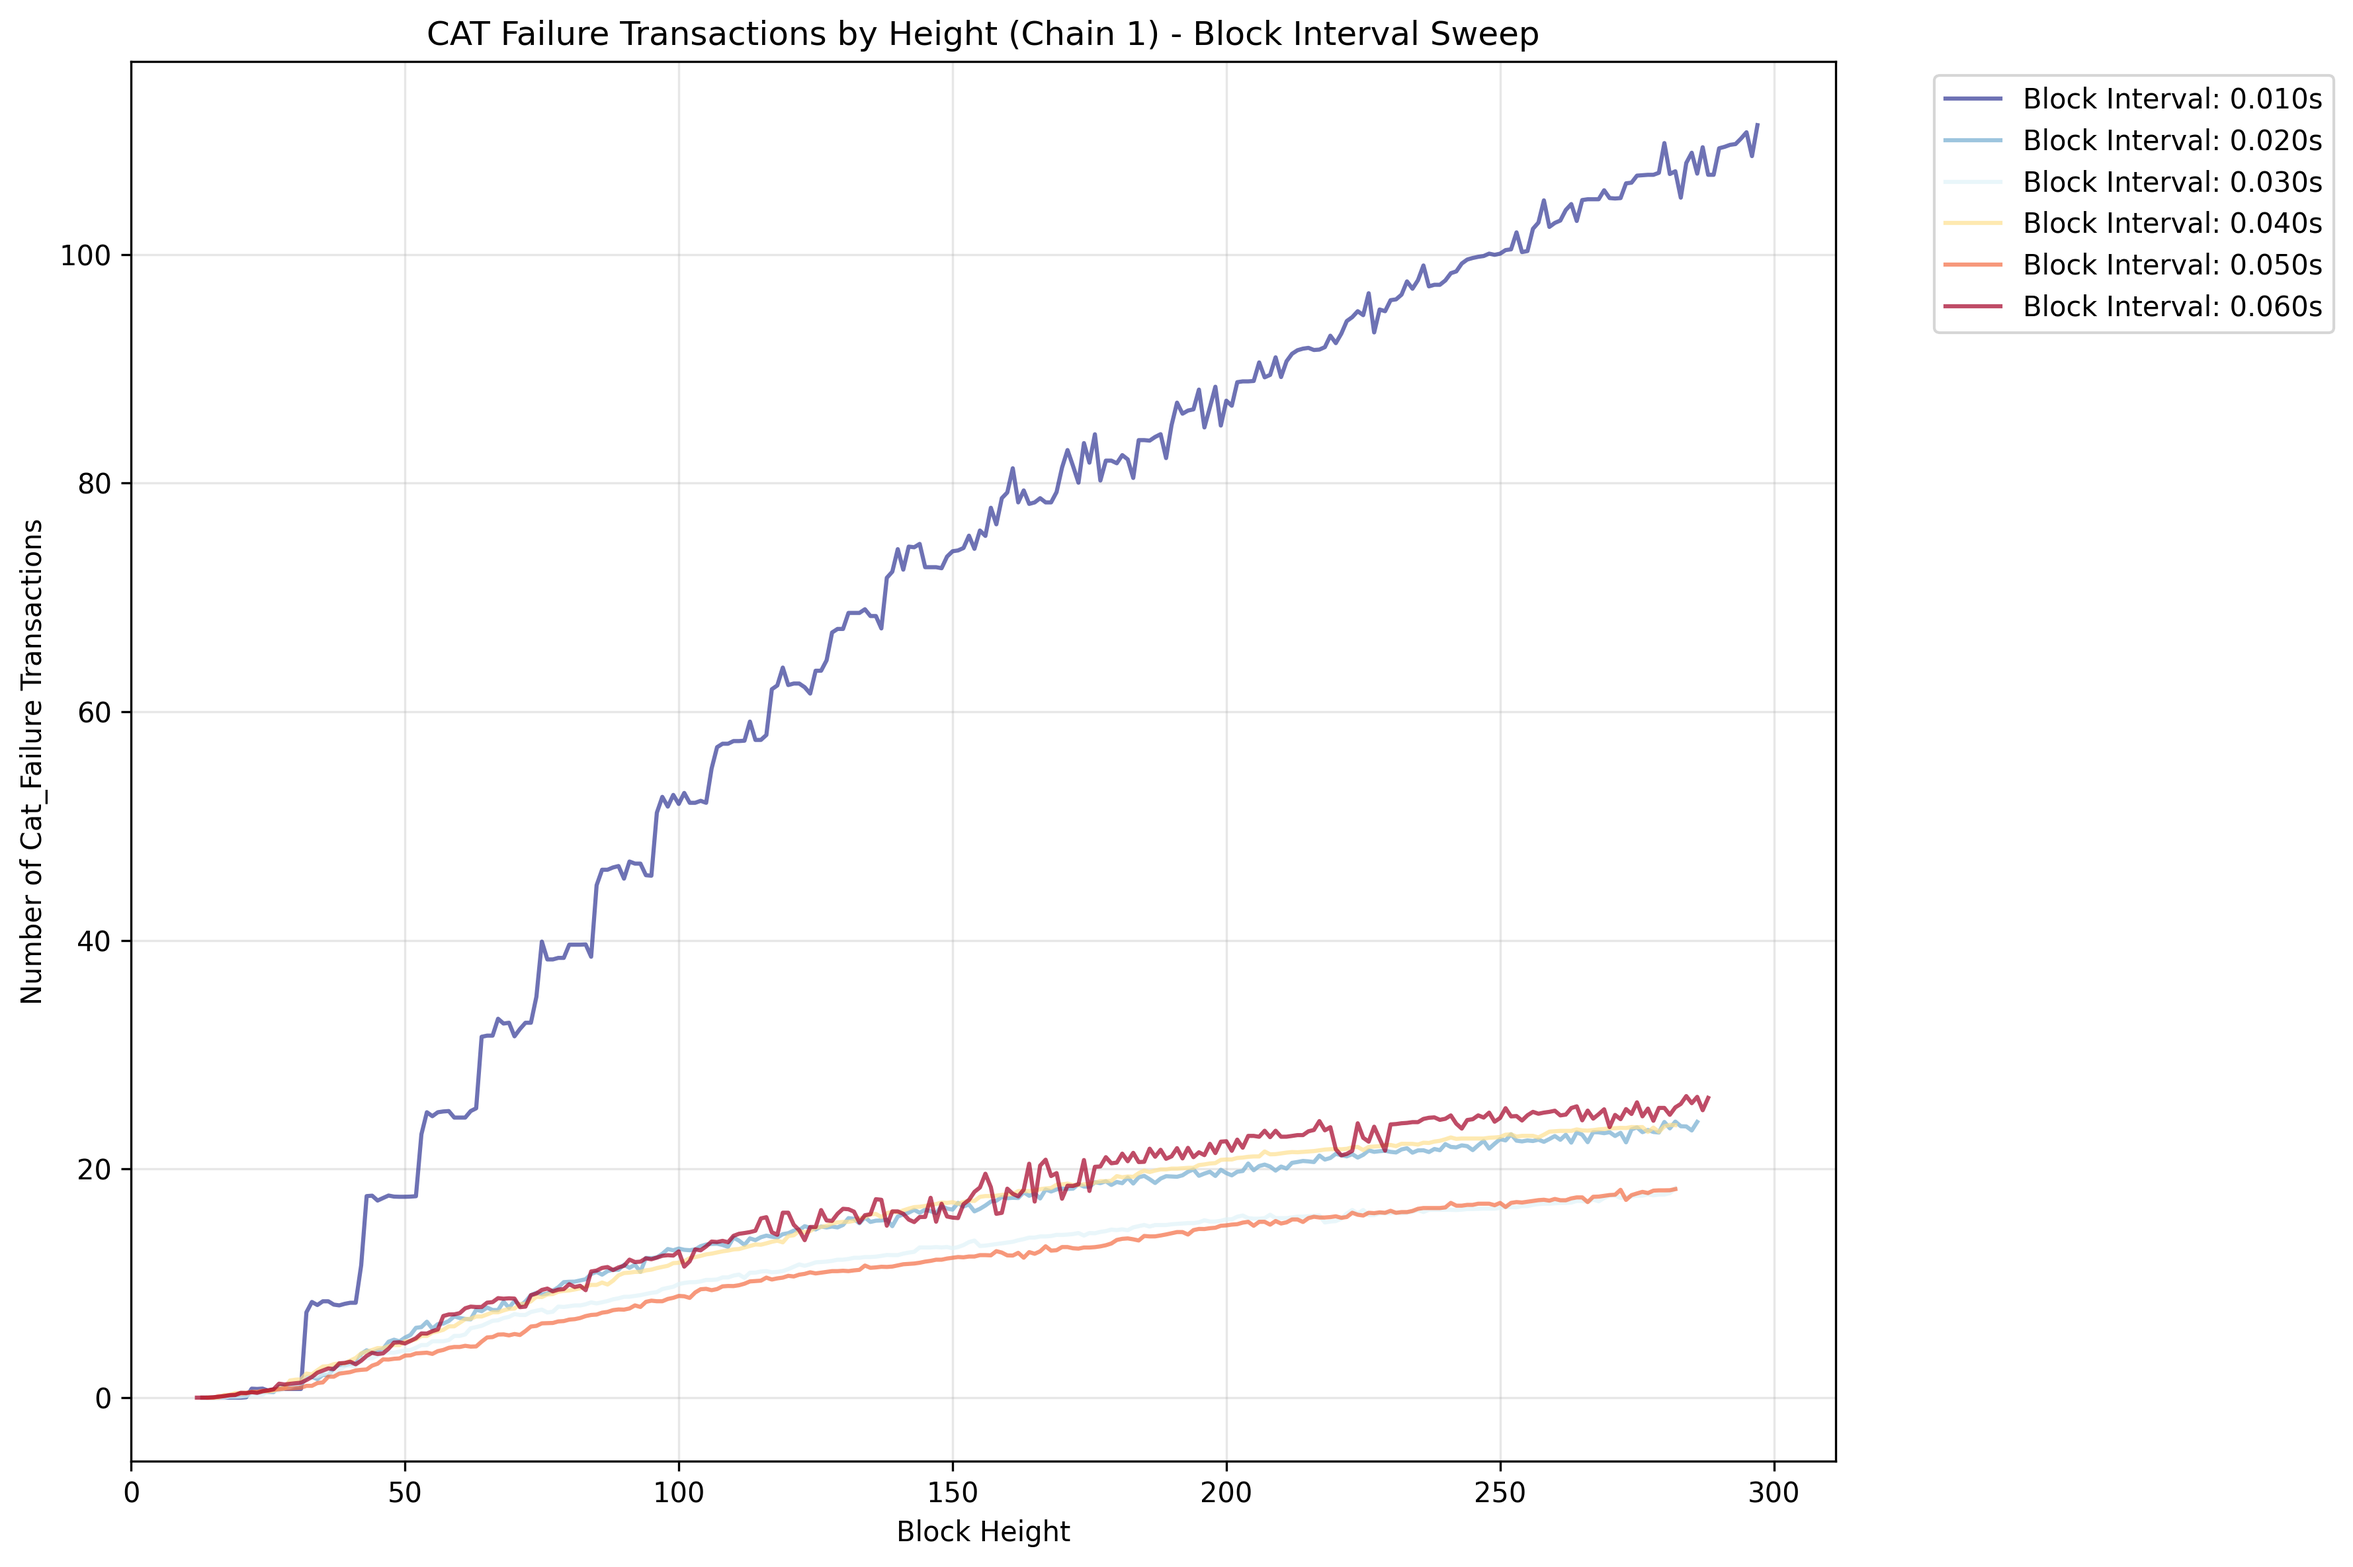
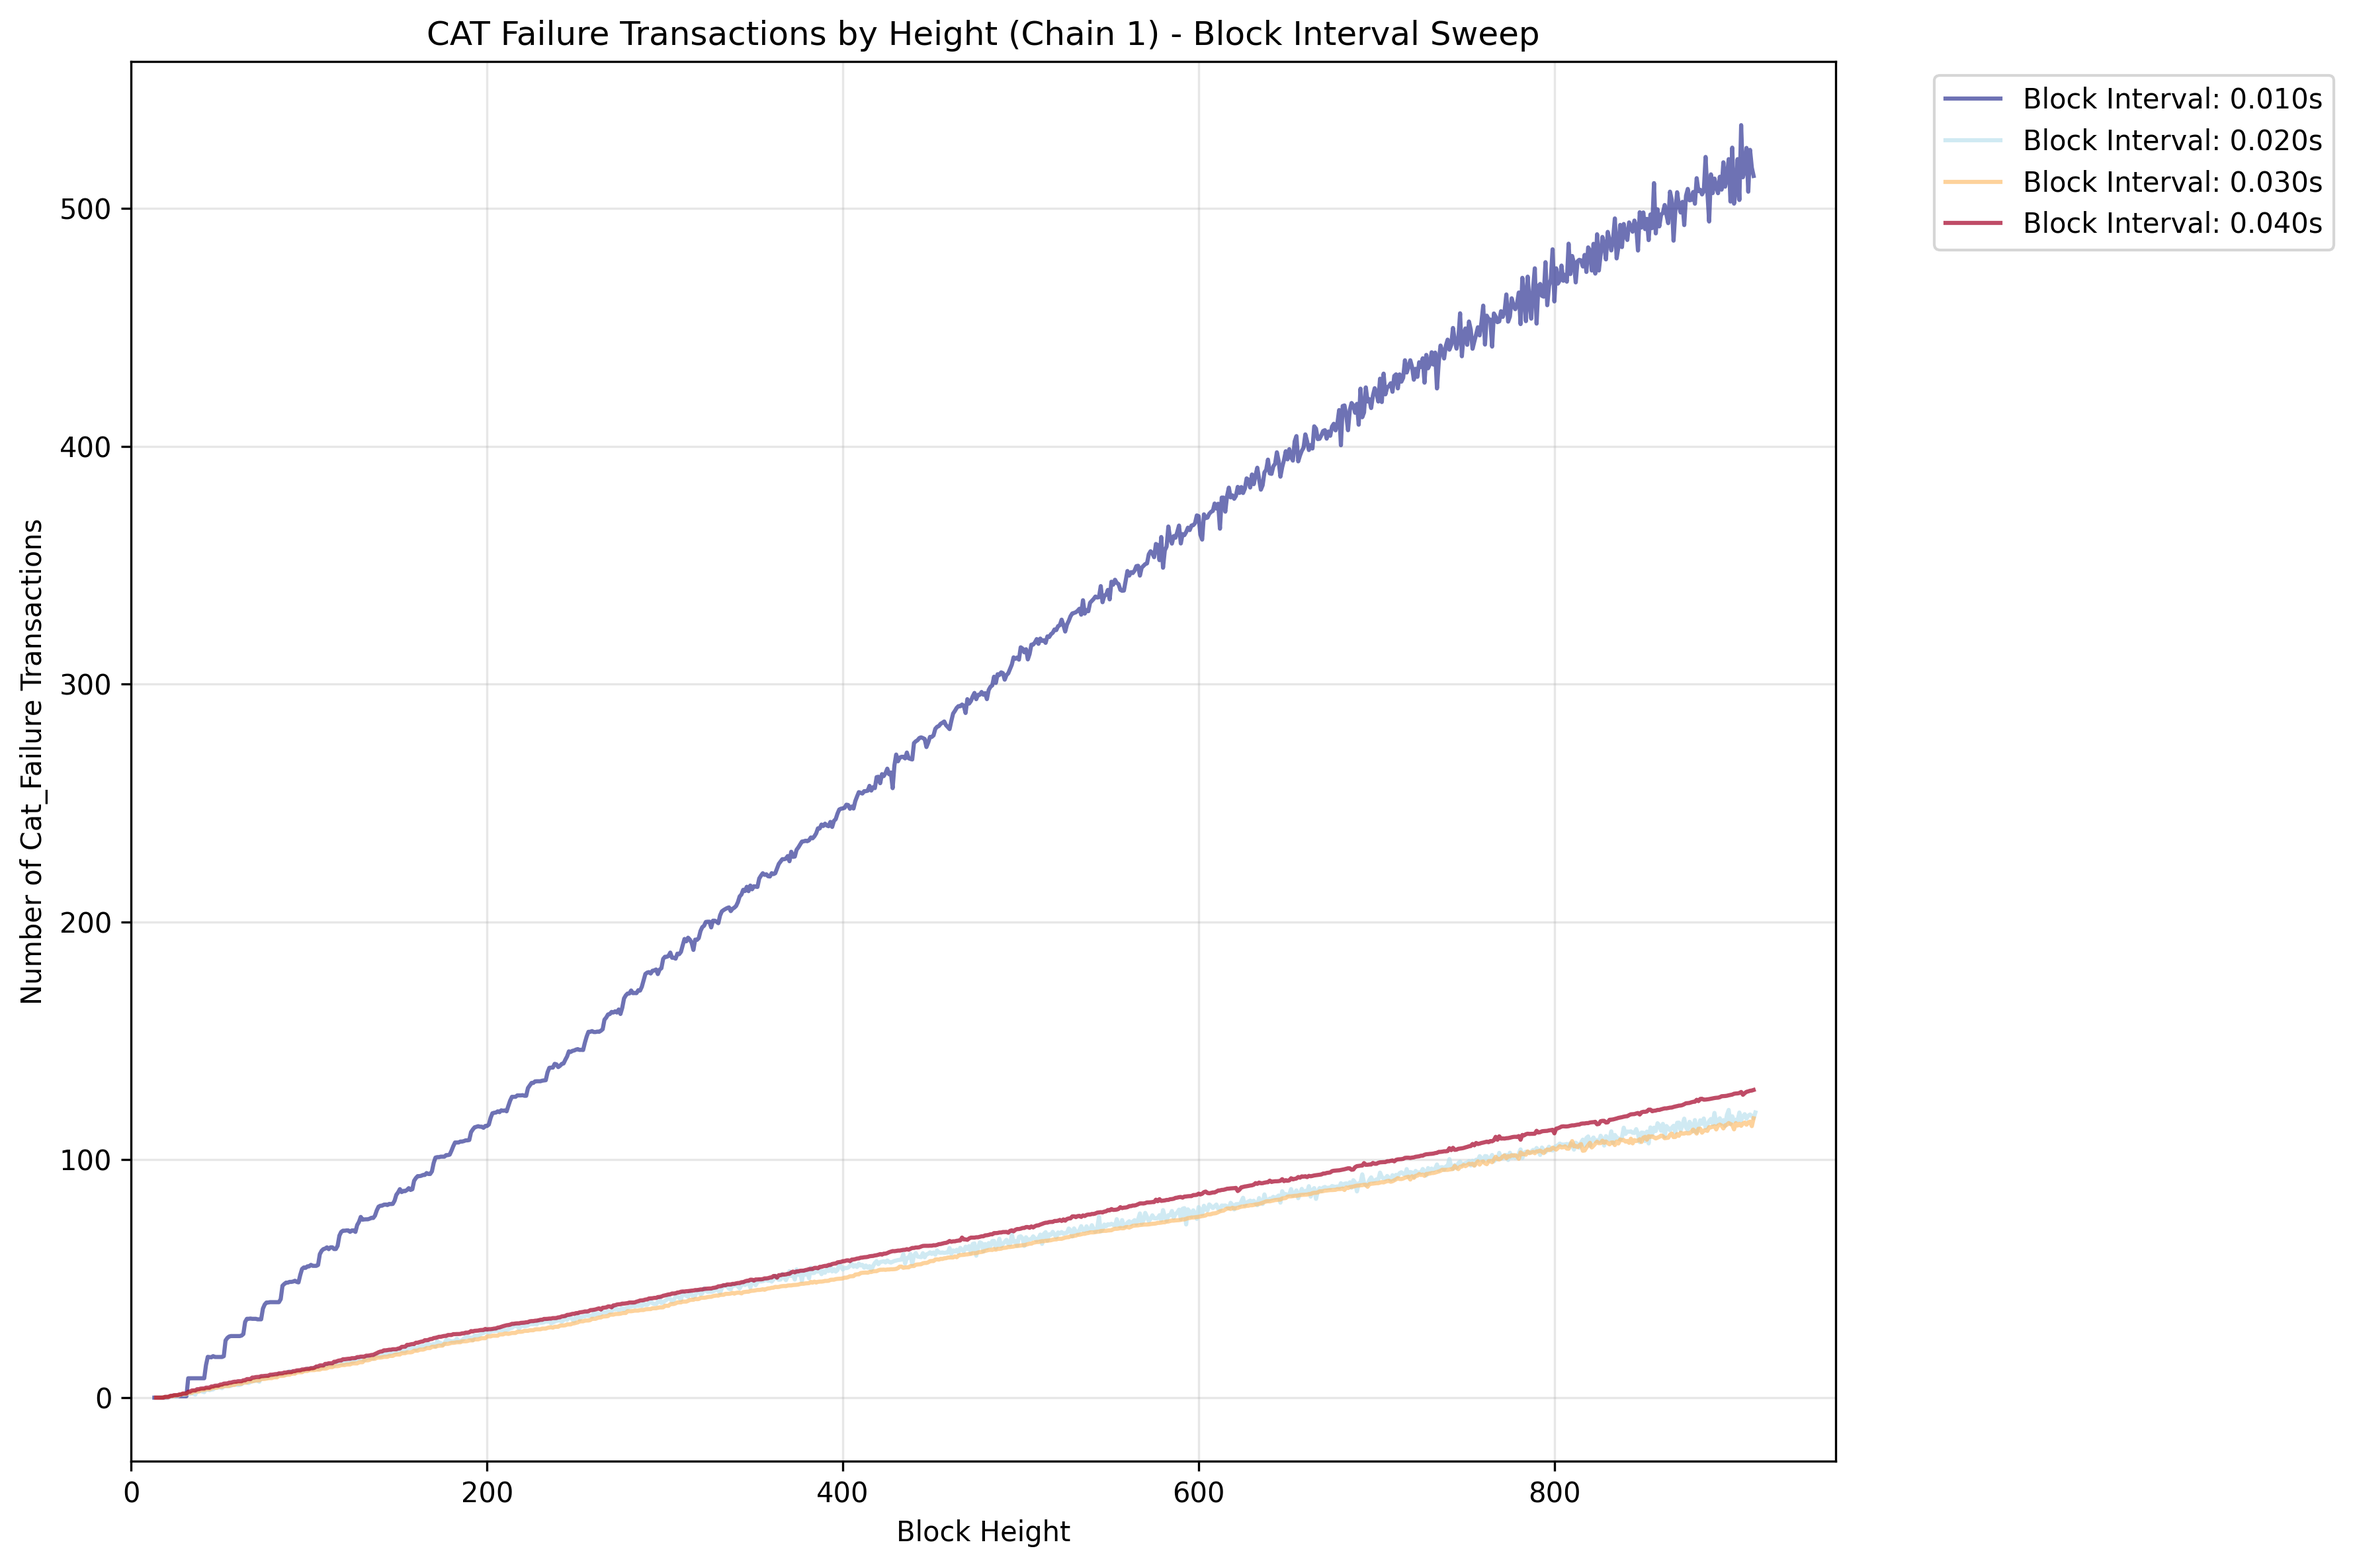
add results for block interval for all scaled

diff --git a/simulator/src/scenarios/sim_sweep_block_interval_all_scaled/README.md b/simulator/src/scenarios/sim_sweep_block_interval_all_scaled/README.md
@@ -11,8 +11,18 @@ This simulation scales the TPS inversely with the block interval to maintain a c
 
 ## Results
 
-The results are expected to degrade as the block interval gets too small. For example in the below simulation, the block interval of 0.01s is a bad choice. We can also note that there appear to be steps visible in the plot for the block interval of 0.01s, which indicates that the hardware was not able to handle the simulation.
+The results are expected to degrade as the block interval gets too small. For example in the below simulation, the block interval of 0.01s is not a good choice.
 
 ![Failed CATs](./tx_failure_cat.png)
+
+The reason, why the simulation for low block interval (0.01s) performs poorly, is that the tps cannot be maintained. We can see this in the plot below, where we can see that the block interval of 0.01s is not able to keep up with the transaction issuance rate.
+
+![tps](./tps.png)
+
+We can further track this down by looking at the loop steps without transaction issuance. We can see that the number of times the waiting loop before sending the transaction batch is entered, decreases with the block height. This indicates that the result recording takes an increasing amount of time. Once the steps per block hits zero, the simulation is unable to keep up with the transaction issuance rate. This is also true for the other cases, although less pronounced.
+
+> *Note:* Until resolved, we should not run too many blocks in total.
+
+![loop steps without transaction issuance](./loop_steps_without_tx_issuance.png)
 
 **Figure Parameters:** Block interval sweep (0.01-0.06s), reference TPS at 1s blocks=10.0, 2 chains (delay of second chain 5 blocks), 10% CAT ratio, CAT lifetime=10 blocks, 1000 accounts, 30 runs averaged.
